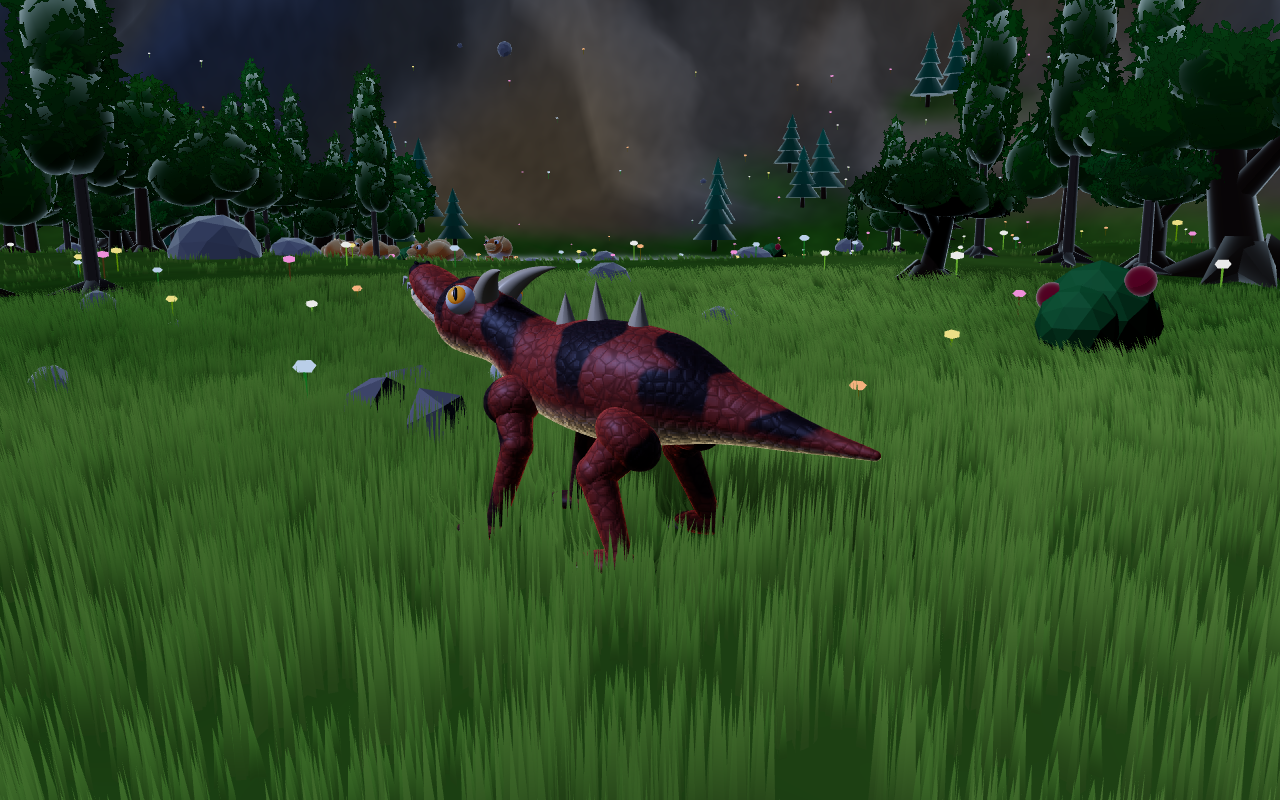
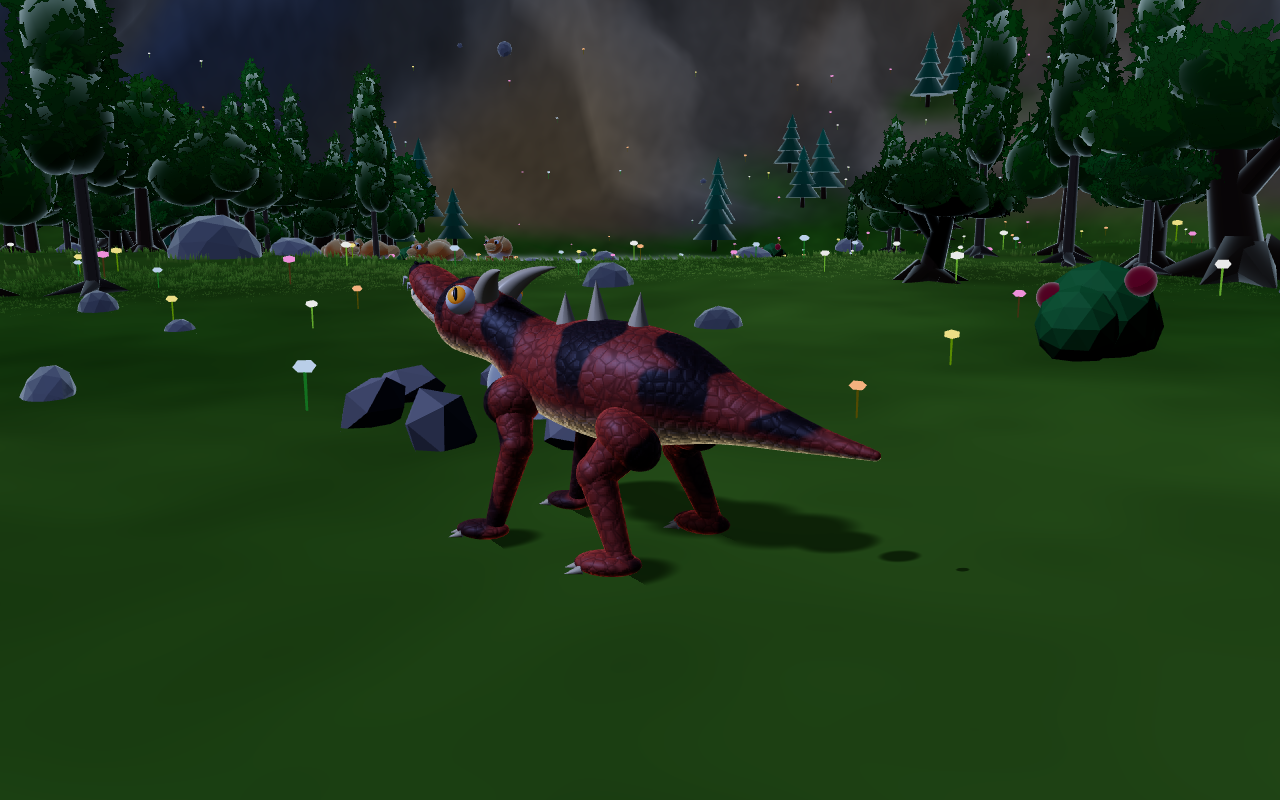
Evidence: before/after vista-disc comparison (pal A, C, B) and full 16/16 grid pass

diff --git a/web/hero/index.html b/web/hero/index.html
@@ -1015,11 +1015,9 @@ gl_FragColor.rgb=aerial(gl_FragColor.rgb,vW);}`}));scene.add(water);
        float lod=offset.w;
        // World-anchored blades: wrap each offset toroidally onto a world grid of period 2R around center.
        float R=lod>.5?140.:44.;vec2 o=offset.xy,base=o+floor((center.xz-o)/(2.*R)+.5)*(2.*R);vec4 t=samp(base);
-       float d=length(base-center.xz),fade=lod>.5?(1.-smoothstep(110.,140.,d))*smoothstep(30.,48.,d):1.-smoothstep(30.,60.,d);
-       // Smooth height fade over the wider band so tall blades at the edge look like short stubble.
-       float tH=lod>.5?smoothstep(30.,48.,d):smoothstep(30.,60.,d);
+       float d=length(base-center.xz),fade=lod>.5?(1.-smoothstep(110.,140.,d))*smoothstep(30.,48.,d):1.-smoothstep(30.,44.,d);
        float rolling=.65+.55*sin(base.x*.033+sin(base.y*.027))*.5+t.b*.4;
-       float hg=mix(.48+.75*clump,.30+.40*clump,lod)*rolling*t.g*fade*tH;
+       float hg=mix(.48+.75*clump,.30+.40*clump,lod)*rolling*t.g*fade;
        float hx=samp(base+vec2(1.,0.)).r-samp(base-vec2(1.,0.)).r,hz=samp(base+vec2(0.,1.)).r-samp(base-vec2(0.,1.)).r;
        float light=max(dot(normalize(vec3(-hx,2.,-hz)),sun),0.);
        vec3 gp=vec3(base.x,t.r,base.y);float sh=1.,push=0.;vec2 pd=vec2(0.);
@@ -1045,10 +1043,7 @@ gl_FragColor.rgb=aerial(gl_FragColor.rgb,vW);}`}));scene.add(water);
       void main(){
        float h=vBlade.x,wave=meadowWave(vGrassWorld.xz,uTime);
        vec3 c=meadowColor(vField,vBlade.y,wave,vGrassWorld.xz);
-       // Fade the blade-colour accent (tuft variation) toward meadow ground colour
-       // so the near-grass ring blends invisibly at high-elevation views.
-       float tH=length(vGrassWorld.xz-center.xz)>44.?1.:length(vGrassWorld.xz-center.xz)<30.?1.:(60.-length(vGrassWorld.xz-center.xz))/30.;
-       c*=mix(${glv(LD.tuft0)},${glv(LD.tuft1)},vTuft*tH+.5*(1.-tH));
+       c*=mix(${glv(LD.tuft0)},${glv(LD.tuft1)},vTuft);
        c*=mix(${gf(LD.bladeLo)},${gf(LD.bladeHi)},smoothstep(0.,1.,h))*mix(${HL.shK},1.,vBlade.z);
        ${LD_BLADE_TIP}${LD_BLADE_SH}
        c+=vec3(.14,.20,.035)*pow(h,2.)*vBlade.w*vBlade.z;
